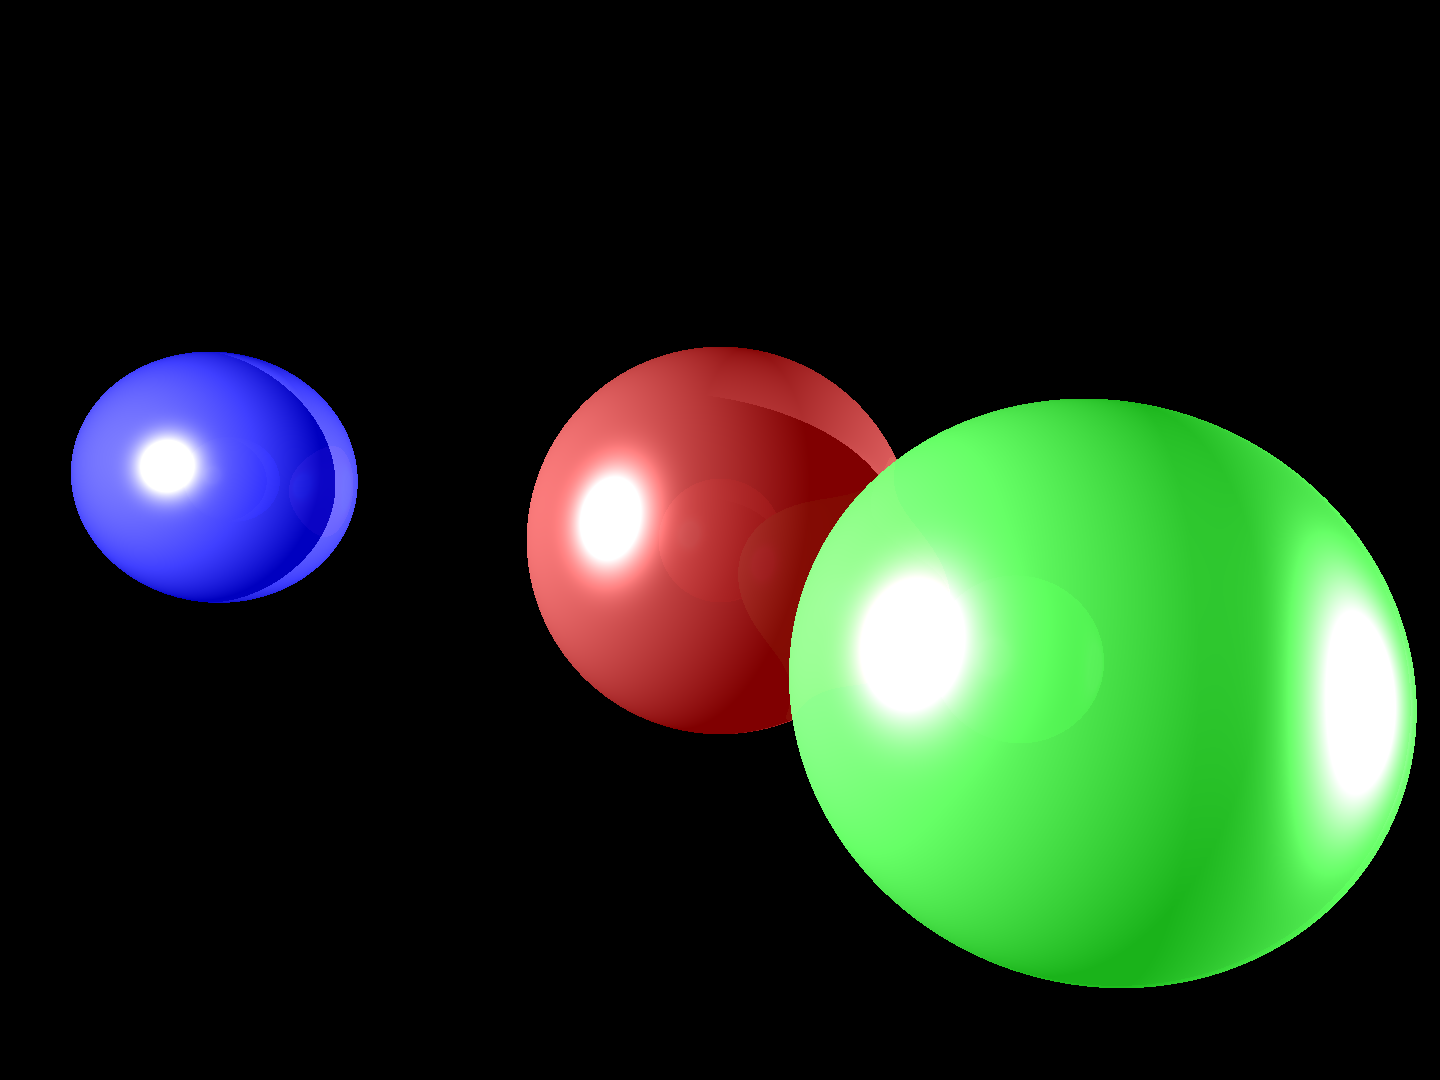
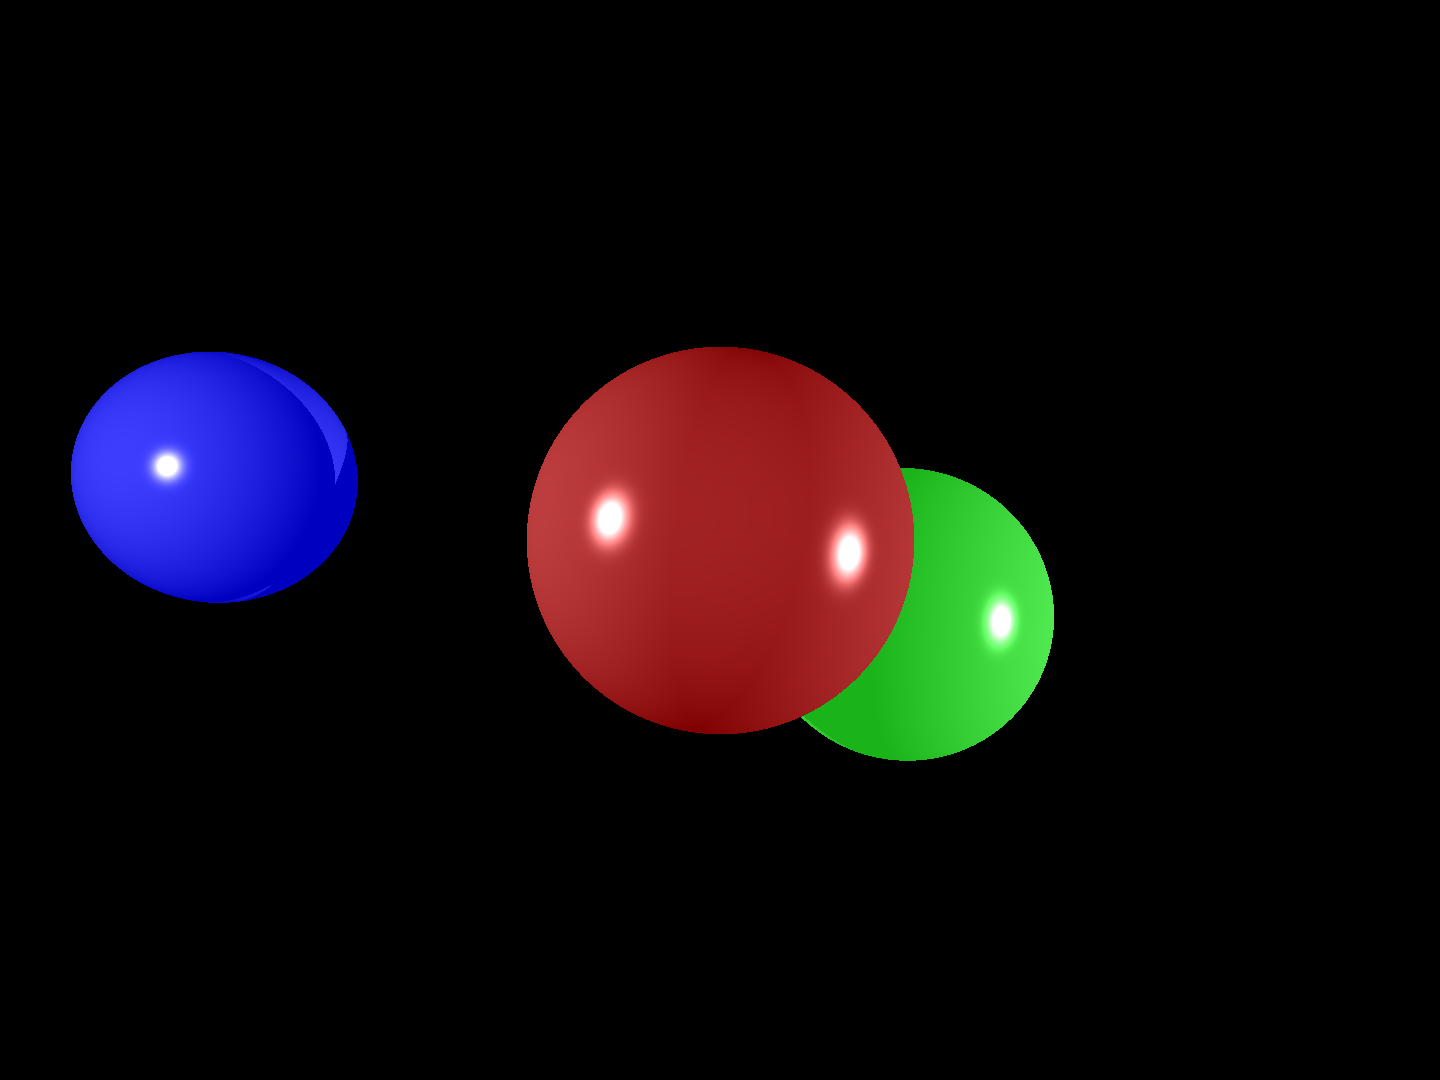
visible noise

diff --git a/code/renderer/Calculate.java b/code/renderer/Calculate.java
@@ -17,7 +17,7 @@ public class Calculate {
      * 
      * @return the vector at the pixel
      */
-    private static Vector createRayPoint(int xPixel, int yPixel, Screen screen){
+    private static Vector createRayPoint(float xPixel, float yPixel, Screen screen){
         Image image  = screen.image;
         ImagePlane imagePlane = screen.imagePlane;
         float alpha = (float) xPixel / image.width;
@@ -44,6 +44,36 @@ public class Calculate {
         return p;
     }
 
+    public static Ray createRayPoint3SubDivisions(int xPixel, int yPixel, Screen screen, int subX, int subY){
+
+        Image image  = screen.image;
+        ImagePlane imagePlane = screen.imagePlane;
+        float deltaAlpha = 1/(3*image.width);
+        float deltaBeta = 1/(3*image.height);
+        float alpha = ((float) xPixel + (subX+.5f)*deltaAlpha )/ image.width;
+        float beta = ((float) yPixel + (subY+.5f)*deltaBeta)/ image.height;
+
+        //linear interpolation of the pixel across the top 2 verticies
+        Vector t = Vector.vectorAddition(
+            Vector.scalarMult(imagePlane.topLeft, (1-alpha)), 
+            Vector.scalarMult(imagePlane.topRight, alpha)
+        );
+
+        //linear interpolation of the pixel across the bottom 2 verticies
+        Vector b = Vector.vectorAddition(
+            Vector.scalarMult(imagePlane.bottomLeft, (1-alpha)), 
+            Vector.scalarMult(imagePlane.bottomRight, alpha)
+        );
+
+        //bilinear interpolation of the pixel across vector b and t to make the vector p at the pixel
+        Vector p = Vector.vectorAddition(
+            Vector.scalarMult(t, (1-beta)), 
+            Vector.scalarMult(b, beta)
+        );
+
+        return new Ray(Vector.vectorSubtration(p, screen.getCamera()),p);
+    }
+
     /*
      * @params xPixel an integer representing the x possiiton of the pixel being examined
      * @params yPixel an integer representing the y possiiton of the pixel being examined
@@ -54,7 +84,7 @@ public class Calculate {
      * 
      * @return the computed ray
      */
-    public static Ray createRay(int xPixel, int yPixel, Screen screen){
+    public static Ray createRay(float xPixel, float yPixel, Screen screen){
         Vector p = createRayPoint(xPixel, yPixel, screen);
         Vector c = screen.getCamera();
         return new Ray(Vector.vectorSubtration(p, c),p);
@@ -99,17 +129,22 @@ public class Calculate {
         return 0;
     }
 
-    /*
-     * @params List<Shape> shapes a list of shapes that could be in view
-     * @params ray a ray of a pixel relative to the camera
+    /**
+     * @param ray a ray of a pixel relative to the camera
+     * @param screen the screen that holds all of the infromation we need
+     * @param recursionDepth the amount of times this funcitonn wil be recursivly called
      * 
      * iterates through all the possible shapes and determins which is closest ot the camera that intersects with the ray.
      * if there is no intersection the return the color black
-     * if there is intersection then return the color of the closest object
+     * if there is intersection then return the color of the closest object.
      * 
-     * @returns color to set the pixel to based on the provided information
+     * Recursivle calls the function a nunmber a times specified in the parameter to create the reflections of other objects
+     * 
+     * @return color to set the pixel to based on the provided information
      */
     public static Color shapeInFront( Ray ray, Screen screen, int recursionDepth){
+
+        //finds the closest shape and gets its color value
         List<Float> tValues = new ArrayList<>();
         List<Sphere> spheres = screen.spheres;
         for(Sphere sphere:spheres){ 
@@ -129,6 +164,7 @@ public class Calculate {
         Sphere closestShape = spheres.get(tValues.indexOf(smallest));
         Color initialColor = closestShape.getColor();
 
+        //applies color values from the lights to the initial values
         VectorPair vectors = surfaceNormal(smallest, ray, closestShape);
         Vector unitNormal = vectors.unitNormal;
         Vector pointOfIntersection = vectors.pointOfIntersection;
@@ -136,17 +172,20 @@ public class Calculate {
         Color diffuseTerm = calculateDiffuseTerm(closestShape, screen, unitNormal, pointOfIntersection);
         Color finalColor = addColors(addColors(ambientTerm, diffuseTerm), initialColor);
 
+        //create new rays from the point of intersection to the next closest object
         Vector vVector = ray.direction;
-        vVector = Vector.scalarMult(vVector, 1 / Vector.magnitude(vVector));
-        if (Vector.dotProduct(vVector, unitNormal) > 0) {
-            unitNormal = Vector.scalarMult(unitNormal, -1); // Flip the normal
-        }        
-        Vector reflectance = Vector.vectorSubtration(vVector,Vector.scalarMult(Vector.scalarMult(unitNormal,Vector.dotProduct(unitNormal, vVector)), 2));
-        // reflectance = Vector.scalarMult(reflectance, 1 / Vector.magnitude(reflectance));
+        vVector = Vector.scalarMult(vVector, -1 / Vector.magnitude(vVector));
+        Vector reflectance;
+        if (Vector.dotProduct(vVector, unitNormal) < 0) {
+            reflectance = new Vector(0,0,0);
+        } else{
+            reflectance = Vector.vectorSubtration(Vector.scalarMult(Vector.scalarMult(unitNormal,Vector.dotProduct(unitNormal, vVector)), 2),vVector);
+            reflectance = Vector.scalarMult(reflectance, 1 / Vector.magnitude(reflectance));
+        }
         Color reflect = closestShape.material.reflectivity;
-
+        //recersivly call this function with a new ray to find color of reflection
         if(recursionDepth>0){
-            Color postReflection = shapeInFront(new Ray(pointOfIntersection, reflectance), screen, recursionDepth-1);
+            Color postReflection = shapeInFront(new Ray(reflectance,pointOfIntersection), screen, recursionDepth-1);
             postReflection = multColors(reflect, postReflection);
             finalColor = addColors(finalColor, postReflection);
         }
@@ -155,6 +194,15 @@ public class Calculate {
     }
 
 
+    /**
+     * @param t a float for the distance the object is along the ray
+     * @param ray a ray from the pixel to the camera
+     * @param sphere a sphere the ray is intersecting at distance t
+     * 
+     * uses vector addition, subtration, and normalization to find the point of intersection and the unit normal vector at that point
+     * 
+     * @return a pair of vectors being the unit normal vector and the p[oint of intersection
+     */
     private static VectorPair surfaceNormal(float t, Ray ray, Sphere sphere){
         Vector pointOfIntersection = Vector.vectorAddition(ray.origin, Vector.scalarMult(ray.direction, t));
         Vector normalVector = Vector.vectorSubtration(pointOfIntersection, sphere.center);
@@ -162,6 +210,14 @@ public class Calculate {
         return new VectorPair(unitNormal, pointOfIntersection);
     }
 
+    /**
+     * @param sphere the shpere that the pixel sees
+     * @param screen the screen holding all of the information needed
+     * 
+     * use the ambient constant on the shpere materal and multiply it by the ambient light of the screen
+     * 
+     * @return the color product of the 2 values
+     */
     private static Color calculateAmbientTerm(Sphere sphere, Screen screen){
         return new Color(
                 sphere.material.ambiantConstant.getR()*screen.ambientLight.getR(),
@@ -170,9 +226,22 @@ public class Calculate {
                 );
     }
 
+    /**
+     * @param sphere the sphere that the pixel sees
+     * @param screen the screen that contains all the information baoput the scene
+     * @param unitNormal a normal vector on the shpere at the point of intersection
+     * @param pointOfIntersection a vector to the point that the pixel's ray intersects with the shpere
+     * 
+     * iterates through all of the lights in the scene
+     * if the light is able to see the object (not in a shadow) then it calculates the diffuse term and the specular term for the light
+     * 
+     * @return the color value of the specular and diffuse copmonents of the lights on the object
+     */
     private static Color  calculateDiffuseTerm(Sphere sphere, Screen screen, Vector unitNormal, Vector pointOfIntersection){
         Color totalDiffuseAndSpecularComponent = new Color(0);
         for(Light light : screen.lights){
+
+            //checking if the light contacts the shpere at the point
             boolean inShadow = false;
             Ray shadowRay = shadowRay(light.location, pointOfIntersection);
             for (Sphere otherShpere:screen.spheres){
@@ -185,7 +254,10 @@ public class Calculate {
 
                 }
             }
+
+
             if(!inShadow){
+                //calculates the diffuse component
                 Vector lightVector = Vector.vectorSubtration(light.location, pointOfIntersection);
                 Vector untiLightVector = Vector.scalarMult(lightVector, 1/Vector.magnitude(lightVector));
                 float dotProduct = Vector.dotProduct(unitNormal, untiLightVector);
@@ -195,21 +267,39 @@ public class Calculate {
                         light.diffuseIntensity.getG()*sphere.material.diffuseConstant*dotProduct,
                         light.diffuseIntensity.getB()*sphere.material.diffuseConstant*dotProduct
                     );
+                    
+                    //combines the diffuse and specular components
                     totalDiffuseAndSpecularComponent = addColors(diffuseComponent, totalDiffuseAndSpecularComponent);
                     Color specularComponent = calculateSpecularTerm(sphere, screen, unitNormal, pointOfIntersection, untiLightVector, light);
                     totalDiffuseAndSpecularComponent = addColors(addColors(specularComponent, totalDiffuseAndSpecularComponent),specularComponent);
                 }
             }
         }
+
         return totalDiffuseAndSpecularComponent;
     }
 
+    /**
+     * @param sphere the shpere that the pixel sees
+     * @param screen the screen that holds all of the informaion about the scene
+     * @param unitNormal the unit normal vector at the poiunt of intersection
+     * @param pointOfIntersection vector to the point where the piuxel sees the sphere
+     * @param lightVector unit vector of the direction from the point of intersection to the light
+     * @param light a light that is beign examined
+     * 
+     * calculate the specular term for the light on the shpere at the  point of intersection
+     * 
+     * @return the specular term
+     */
     private static Color calculateSpecularTerm(Sphere sphere, Screen screen, Vector unitNormal, Vector pointOfIntersection, Vector lightVector, Light light){
+
+        //create vectors for calculation
         Vector reflectance = Vector.vectorSubtration(Vector.scalarMult(Vector.scalarMult(unitNormal,Vector.dotProduct(unitNormal, lightVector)), 2),lightVector);
         reflectance = Vector.scalarMult(reflectance, 1 / Vector.magnitude(reflectance));
         Vector viewVector = Vector.vectorSubtration(screen.camera, pointOfIntersection);
         viewVector = Vector.scalarMult(viewVector, 1 / Vector.magnitude(viewVector));
 
+        //calculate values for specular constant
         float dotProduct = Math.max(Vector.dotProduct(reflectance, viewVector), 0);
         float specularColorScalar = (float)Math.pow(dotProduct,sphere.material.shininess)*sphere.material.specularConstant;
         return new Color(
@@ -221,6 +311,13 @@ public class Calculate {
     }
 
 
+    /**
+     * @param color a representation of color with float values
+     * 
+     * convert from color to colorImage
+     * 
+     * @return a representation of color with values [0,255]
+     */
     public static ImageColor colorToImageColor(Color color){
         return new ImageColor(
                     Math.round(color.getR()*255),
@@ -228,13 +325,38 @@ public class Calculate {
                     Math.round(color.getB()*255)
         );
     }
-    private static Color addColors(Color c1, Color c2){
+
+    /**
+     * @param c1 color
+     * @param c2 color
+     * 
+     * add the rgb values of the colors together
+     * 
+     * @return combined color
+     */
+    public static Color addColors(Color c1, Color c2){
         return new Color(c1.getR()+c2.getR(), c1.getG()+c2.getG(), c1.getB()+c2.getB());
     }
+
+    /**
+     * @param c1 color
+     * @param c2 color
+     * 
+     * multiply the values of rgb
+     * 
+     * @return product color
+     */
     private static Color multColors(Color c1, Color c2){
         return new Color(c1.getR()*c2.getR(), c1.getG()*c2.getG(), c1.getB()*c2.getB());
     }
 
+    /**
+     * @param c color to be clamped
+     * 
+     * ensures that the values for rgb in the colors fall in the range [0,1]
+     * 
+     * @return adjusted color
+     */
     private static Color clamp(Color c) {
         return new Color(
             Math.max(0, Math.min(c.getR(), 1)),
@@ -243,8 +365,17 @@ public class Calculate {
         );
     }
 
+    /**
+     * @param light light vector
+     * @param pointOfIntersection point of intersection
+     * 
+     * create shadow ray from light and point of intersection
+     * 
+     * @return new shadow ray
+     */
     public static Ray shadowRay(Vector light, Vector pointOfIntersection){
-        return new Ray(Vector.vectorSubtration(light, pointOfIntersection),pointOfIntersection);
+        Vector bias = Vector.scalarMult(pointOfIntersection, 1e-4f); 
+        return new Ray(Vector.vectorSubtration(light, Vector.vectorAddition(bias, pointOfIntersection)),pointOfIntersection);
     }
     
     

diff --git a/code/renderer/Screen.java b/code/renderer/Screen.java
@@ -62,16 +62,28 @@ public class Screen {
     public void shapeTest(){
         for(int i = 1; i<image.width;i++){
             for(int j = 1; j<image.height;j++){
-                Ray ray = Calculate.createRay(i, j, this);
-                ImageColor color = Calculate.colorToImageColor(Calculate.shapeInFront(ray,this, 1));
+                ImageColor color = Calculate.colorToImageColor(SSAA(i,j));
                 image.plotPixel(i, j, color);
             }
         }
     }
 
+    private Color SSAA(int xPixel,int yPixel){
+        Color finalColor = new Color(0, 0, 0);
+        for (int i = 0; i<3; i++){
+            for (int j = 0; j<3; j++){
+                Ray ray = Calculate.createRayPoint3SubDivisions(xPixel,yPixel,this,i,j);
+                Color sampleColor = Calculate.shapeInFront(ray, this, 0);
+                finalColor = Calculate.addColors(finalColor, sampleColor);
+            }
+        }
+        finalColor = new Color(finalColor.getR()/9,finalColor.getG()/9,finalColor.getB()/9);
+        return finalColor;
+    }
+
     public static void main(String[] args) throws IOException{
         Screen screen = new Screen();
-        screen.addSphere(new Sphere(1f,new Vector(1.25f, -.5f, 2),new Color(.1f, .7f, .1f)));
+        screen.addSphere(new Sphere(1f,new Vector(1.25f, -.5f, 5f),new Color(.1f, .7f, .1f)));
         screen.addSphere(new Sphere(1f,new Vector(0, 0, 3.5f),new Color(.5f,0,0 )));
         screen.addSphere(new Sphere(1f,new Vector(-4, .5f, 6), new Color(0, 0, .75f)));
         

diff --git a/code/renderer/Material.java b/code/renderer/Material.java
@@ -17,6 +17,6 @@ public class Material {
     }
 
     public Material(){
-        this(new Color(.01f,.01f,.02f), new Color(.05f), .6f,.8f, shininess = 10f);
+        this(new Color(.01f,.01f,.02f), new Color(.6f,.2f,.3f), .3f,.8f, shininess = 50f);
     }
 }
